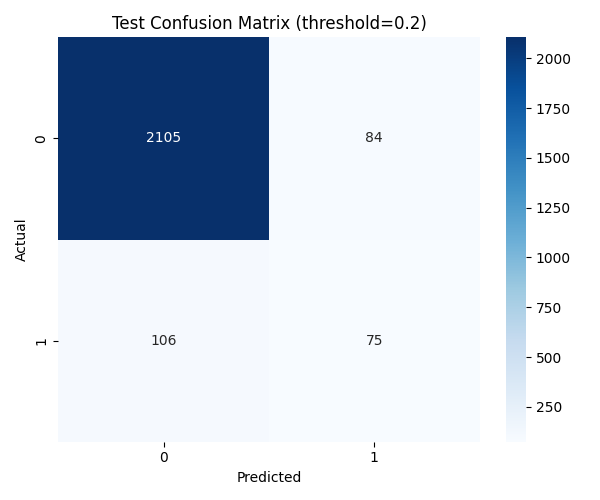
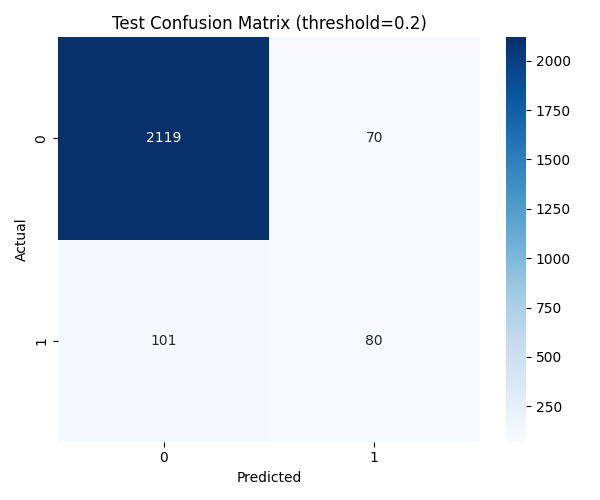
Update Training Model & Evaluation

diff --git a/src/feature_engineering.py b/src/feature_engineering.py
@@ -240,43 +240,5 @@ def main():
     except Exception as e:
         print(f"❌ Error in feature engineering pipeline: {e}")
 
-
-# def main():
-#     """
-#     Main execution pipeline.
-#     """
-#     try:
-#         # 1. Load Data
-#         input_path = PROCESSED_DATA_DIR / "step1_quality_checked.csv"
-#         if not input_path.exists():
-#              raise FileNotFoundError(f"Input file not found: {input_path}")
-             
-#         print(f"📂 Loading data from {input_path}...")
-#         df = pd.read_csv(input_path)
-        
-#         # 2. Feature Engineering Pipeline
-#         df = calculate_price_action_features(df)
-#         df = calculate_volatility_features(df)
-#         df = calculate_momentum_features(df)
-        
-#         # 3. Feature Selection
-#         df = perform_feature_selection(df)
-        
-#         # 4. Summary Stats
-#         print("\n📊 Final Feature Summary:")
-#         print(f"Price Action:  {len([c for c in df.columns if 'candle' in c or 'ratio_' in c or 'wick' in c])}")
-#         print(f"Volatility:    {len([c for c in df.columns if 'rolling_' in c or 'bb_' in c or 'atr' in c or 'z_score' in c])}")
-#         print(f"Momentum:      {len([c for c in df.columns if 'rsi' in c or 'macd' in c or 'roc_' in c])}")
-#         print(f"Total Columns: {len(df.columns)}")
-        
-#         # 5. Save
-#         output_path = PROCESSED_DATA_DIR / "step3_features_engineered.csv"
-#         df.to_csv(output_path, index=False)
-#         print(f"\n💾 Saved engineered data to: {output_path}")
-        
-#     except Exception as e:
-#         print(f"❌ Error in feature engineering pipeline: {e}")
-#         # raise e # Optional: Raise if you want stack trace
-
 if __name__ == "__main__":
     main()

diff --git a/src/preprocessing_stop_hit.py b/src/preprocessing_stop_hit.py
@@ -333,9 +333,10 @@ def main():
         full_path = PROCESSED_DATA_DIR / "step4_preprocessed_full.csv"
         df.to_csv(full_path, index=False)
         print(f"💾 Saved full preprocessed (cleaned & balanced) data to: {full_path}")
-        
+
         # 5. Time-based split
         train, valid, test = perform_time_based_split(df)
+        train = balance_dataset(train, target_col="stop_hit", ratio=2.5)
         
         for split_name, split_df in zip(["train", "valid", "test"], [train, valid, test]):
             if "created_at" in split_df.columns:
